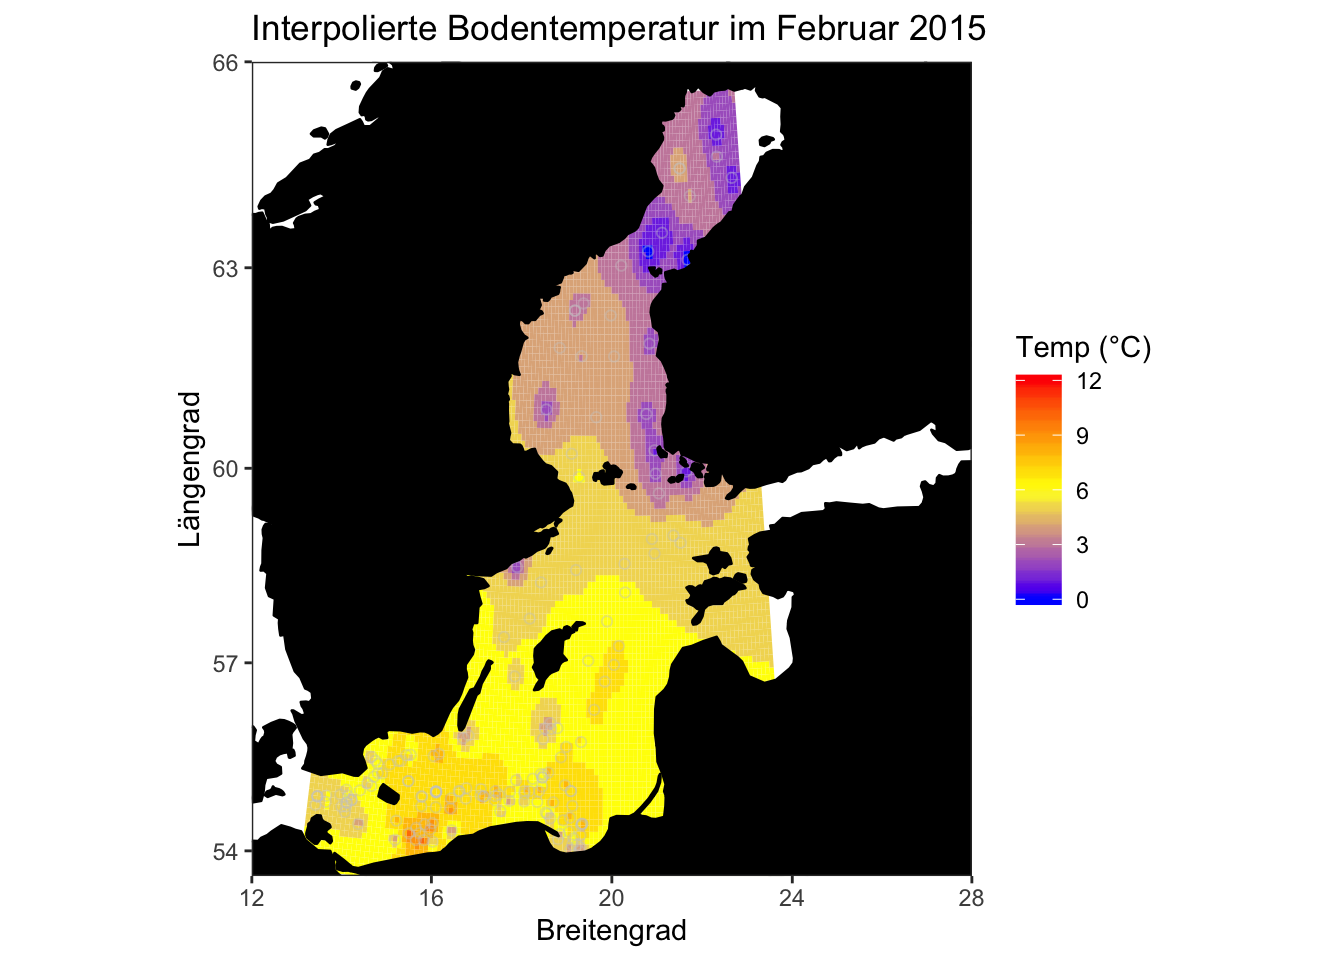
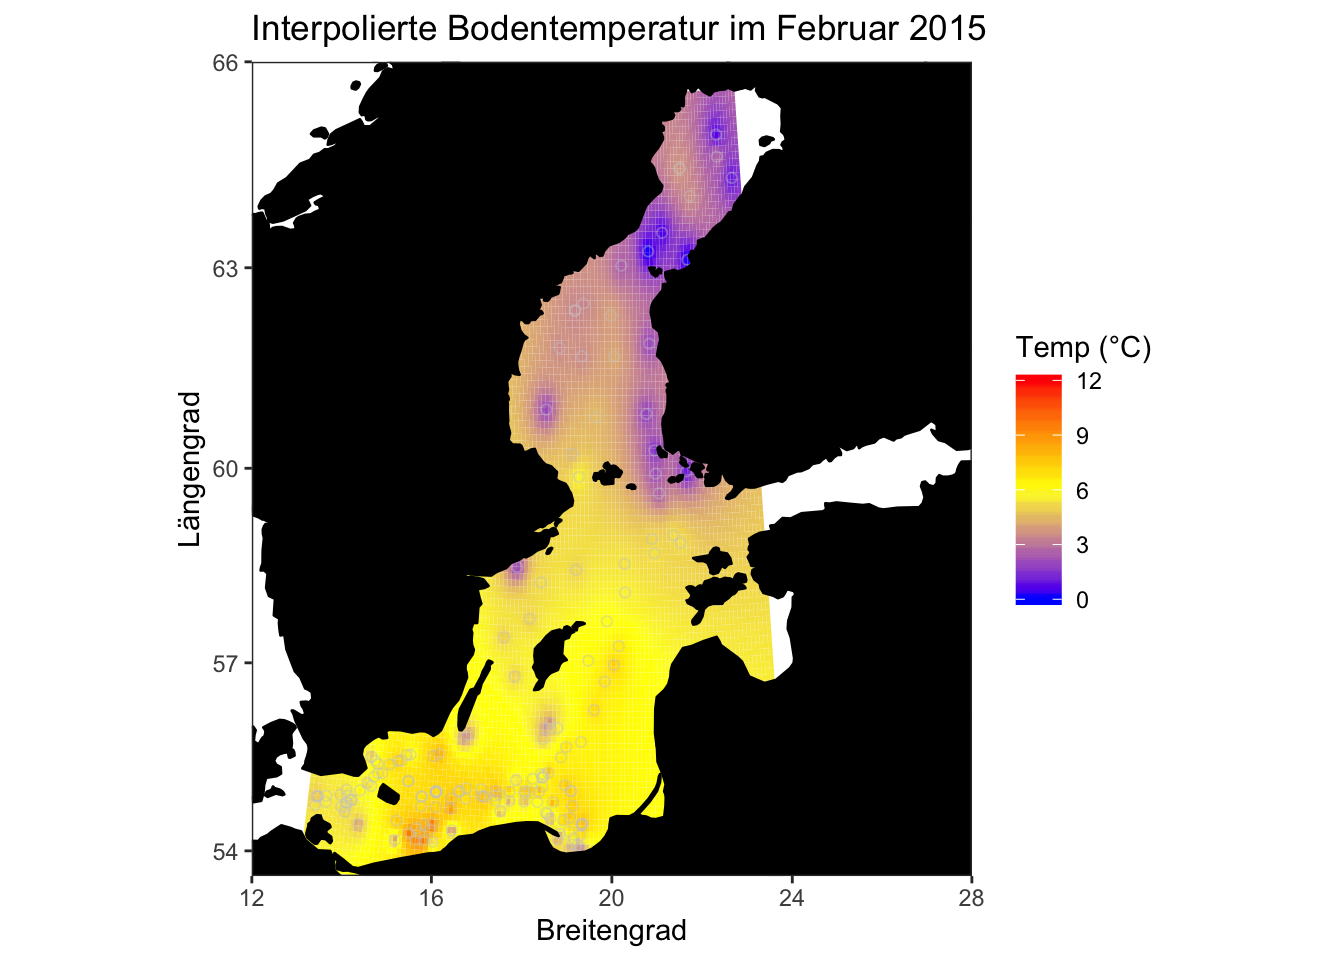
updated demo

diff --git a/docs/demo_maps.html b/docs/demo_maps.html
@@ -489,14 +489,12 @@ div.tocify {
 </div>
 
 
-<div id="bodentemperatur-im-februar" class="section level2">
-<h2>Bodentemperatur im Februar</h2>
+<p><span style="font-weight:bold; text-decoration:underline; font-size: 24px">Bodentemperatur im Februar</span></p>
 <p><strong>Wie kommt man von hier ….</strong></p>
 <p><img src="demo_map_plotting_files/unnamed-chunk-2-1.png" width="672" /></p>
 <p><strong>… nach hier?</strong></p>
 <pre><code>## [inverse distance weighted interpolation]</code></pre>
 <p><img src="demo_map_plotting_files/unnamed-chunk-3-1.png" width="672" /></p>
-</div>
 <div id="datenvorbereitung" class="section level2">
 <h2>Datenvorbereitung</h2>
 <p>Bevor die Karten erstellt werden können, müssen wir die Daten (der <code>hydro</code> Datensatz) erstmal entsprechend tidy machen und transformieren:</p>
@@ -579,8 +577,8 @@ p1</code></pre>
 <p><code>theme()</code> bietet eine sehr große Auswahl an Argumenten bzw. Elementeinstellungen, von denen <em>panel.grid</em> (also das Gitter im panel selbst) nur eines ist. Hier lohnt sich ein Blick in die Hilfe mit <code>?theme</code> auf jedenfall. Mit der <code>element_blank()</code> geben wir an, dass das grid Element leer bleiben soll.</p>
 <p>Ich habe bewusst diesen Schritt nach dem Layout-Schritt mit <code>theme_bw()</code> gemacht, weil diese Funktion alle manuellen theme Veränderungen überschreibt und dann wäre unser grid wieder sichtbar.</p>
 </div>
-<div id="schritt-4-die-interpolation-der-temperatur" class="section level2">
-<h2>Schritt 4: Die Interpolation der Temperatur</h2>
+<div id="schritt-4-interpolation" class="section level2">
+<h2>Schritt 4: Interpolation</h2>
 <p>Für die nächsten Schritte reicht uns ggplot2 allerdings nicht aus und wür müssen auf 2 weitere wichtige Pakete zurückgreifen</p>
 <ul>
 <li><a href="https://www.rdocumentation.org/packages/gstat/versions/1.1-6">gstat</a>: dies ist ein Paket für <strong>räumliche und räumlich-zeitliche geostatische Modellierung und Simulation</strong> und enthält diverse kriging und Variogram Funktionen.</li>
@@ -623,7 +621,15 @@ sp::coordinates(dat) = ~x + y</code></pre>
 ## attr(,&quot;package&quot;)
 ## [1] &quot;sp&quot;</code></pre>
 <p>Wir Ihr sehen könnt, ist das entstandene Objekt kein SpatialPointsDataFrame mehr sondern ein SpatialPixelsDataFrame. Dieses muss zurück in einen data frame umgewandelt werden, damit wir es mit ggplot plotten können:</p>
-<pre class="r"><code>idw_mod &lt;- as.data.frame(idw_mod)  </code></pre>
+<pre class="r"><code>idw_mod &lt;- as.data.frame(idw_mod)  
+head(idw_mod)</code></pre>
+<pre><code>##          x       y var1.pred var1.var
+## 1 13.14403 53.8565  5.823782       NA
+## 2 13.24403 53.8565  5.825647       NA
+## 3 13.34403 53.8565  5.830258       NA
+## 4 13.44403 53.8565  5.837742       NA
+## 5 13.54403 53.8565  5.848246       NA
+## 6 13.64403 53.8565  5.862020       NA</code></pre>
 </div>
 <div id="einbau-der-interpolation-in-die-karte" class="section level3">
 <h3>Einbau der Interpolation in die Karte</h3>
@@ -636,8 +642,9 @@ sp::coordinates(dat) = ~x + y</code></pre>
 <li>Die Punkte könnte man wenn als hohle Kreise mit einzeichnen</li>
 <li>Zum Abschluss wird das Layout geändert:</li>
 </ul>
-<pre class="r"><code>p2 &lt;- ggplot() + geom_tile(data = idw_mod, aes(x,y,
-  fill = round(var1.pred, 0))) +
+<pre class="r"><code>p2 &lt;- ggplot() + 
+  geom_tile(data = idw_mod, 
+    mapping = aes(x, y, fill = var1.pred)) +
   scale_fill_gradient2(midpoint = 6,
     low = &quot;blue&quot;, mid = &quot;yellow&quot;, high = &quot;red&quot;, 
     na.value = &quot;black&quot;, limits = c(0, 12)) +
@@ -652,6 +659,29 @@ sp::coordinates(dat) = ~x + y</code></pre>
   theme(panel.grid = element_blank())
 p2</code></pre>
 <p><img src="demo_map_plotting_files/unnamed-chunk-17-1.png" width="672" /></p>
+<p>Um die Abstufungen deutlicher zu machen, kann man auch die vorhergesagten Temperaturen runden und in einen Faktor umwandeln, um dann eine diskrete Skala zu verwenden:</p>
+<pre class="r"><code>idw_mod$var1.pred &lt;- as.factor(round(idw_mod$var1.pred, 0))
+p2 &lt;- ggplot() + 
+  geom_tile(data = idw_mod, 
+    mapping = aes(x, y, fill = idw_mod$var1.pred)) +
+  # hier muss nun die scale_fill_manual für diskrete Werte genommen werden;
+  # und um eine ähnliche Farbskala zu verwenden können, wir die Matlab-Farben
+  # nehmen: dafür gibt es eine Funktion im Paket &#39;colorRamps&#39; in der man n
+  # (Anzahl der Kategorien) spezifiziert:
+  scale_fill_manual(values = colorRamps::matlab.like(11)) +
+  # damit die hohen Zahlen weiterhin in der Legende oben stehen drehen wir die Skala um:
+  guides(fill =  guide_legend(reverse = TRUE)) +
+  geom_point(data = temp_bot, aes(x = long, y = lat), shape = 21,
+    colour = &quot;grey80&quot;, alpha = 0.4) +
+  geom_polygon(data = world, aes(x = long, y = lat, group = group),
+    fill = &quot;black&quot;, colour = &quot;black&quot;) +
+  coord_map(&quot;ortho&quot;,  xlim = c(12, 28), ylim = c(54,66)) +
+  labs(fill = &quot;Temp (°C)&quot;, y = &quot;Längengrad&quot;, x = &quot;Breitengrad&quot;,
+    title = &quot;Interpolierte Bodentemperatur im Februar 2015&quot;) +
+  theme_bw() +
+  theme(panel.grid = element_blank())
+p2</code></pre>
+<p><img src="demo_map_plotting_files/unnamed-chunk-18-1.png" width="672" /></p>
 <p>Et voila, fertig ist die Karte!</p>
 </div>
 </div>

diff --git a/docs/misc.html b/docs/misc.html
@@ -434,7 +434,7 @@ $(document).ready(function () {
 </div>
 <div id="r-kurs-auf-deutsch" class="section level4">
 <h4>R Kurs auf Deutsch</h4>
-<p>Im Rahmen des <a href="https://www.universitaetskolleg.uni-hamburg.de/universitaetskolleg-2-0/lehrlabor.html">Lehrlabors</a> der Universität Hamburg gibt es das Projekt <a href="https://rlab.blogs.uni-hamburg.de">R-lab 2.0</a> welches online tutorials zu R in den Umweltwissenschaften mittels <em>swirl</em> anbietet. Auch das Institut für Marine Ökosystem und Fischereiwissenschaft ist an dem Projekt beteiligt und ein ähnlicher Datenanalyse R Kurs wie dieser wurde auch als <em>swirl</em> Kurs von mir umgesetzt (dieser allerdings auf Englisch).</p>
+<p>Im Rahmen des <a href="https://www.universitaetskolleg.uni-hamburg.de/universitaetskolleg-2-0/lehrlabor.html">Lehrlabors</a> der Universität Hamburg gibt es das Projekt <a href="https://rlab.blogs.uni-hamburg.de">R-lab 2.0</a> welches frei verfügbare online tutorials zu R und <em>swirl</em> Kurse in den Umweltwissenschaften anbietet. Auch das Institut für Marine Ökosystem und Fischereiwissenschaft ist an dem Projekt beteiligt und ein ähnlicher Datenanalyse R Kurs wie dieser wurde auch als <em>swirl</em> Kurs von mir umgesetzt (dieser allerdings auf Englisch).</p>
 <p><br> <br></p>
 </div>
 </div>

diff --git a/docs/index.html b/docs/index.html
@@ -399,7 +399,7 @@ $(document).ready(function () {
 <li>Datenmanagement und Bereinigen von Daten</li>
 <li>Grafische Auswertungen mit R</li>
 <li>Grundlegende statistische Analysen (Signifikanztest, Regressionsanalysen)</li>
-<li>Darüber hinaus werden wir die Interpolation von Messdaten und Erstellung von Karten anreißen</li>
+<li>Darüber hinaus werden wir die Interpolation von Messdaten und Erstellung von Karten anreißen (siehe Demo)</li>
 </ul>
 <p><br> <img src="img_site/Tidyverse_packages.png" alt="Tidyverse packages" style="float:left;clear:left;width:650px;border:0;padding:0% 4% 0% 0%;"/></p>
 <p><br> <br></p>
